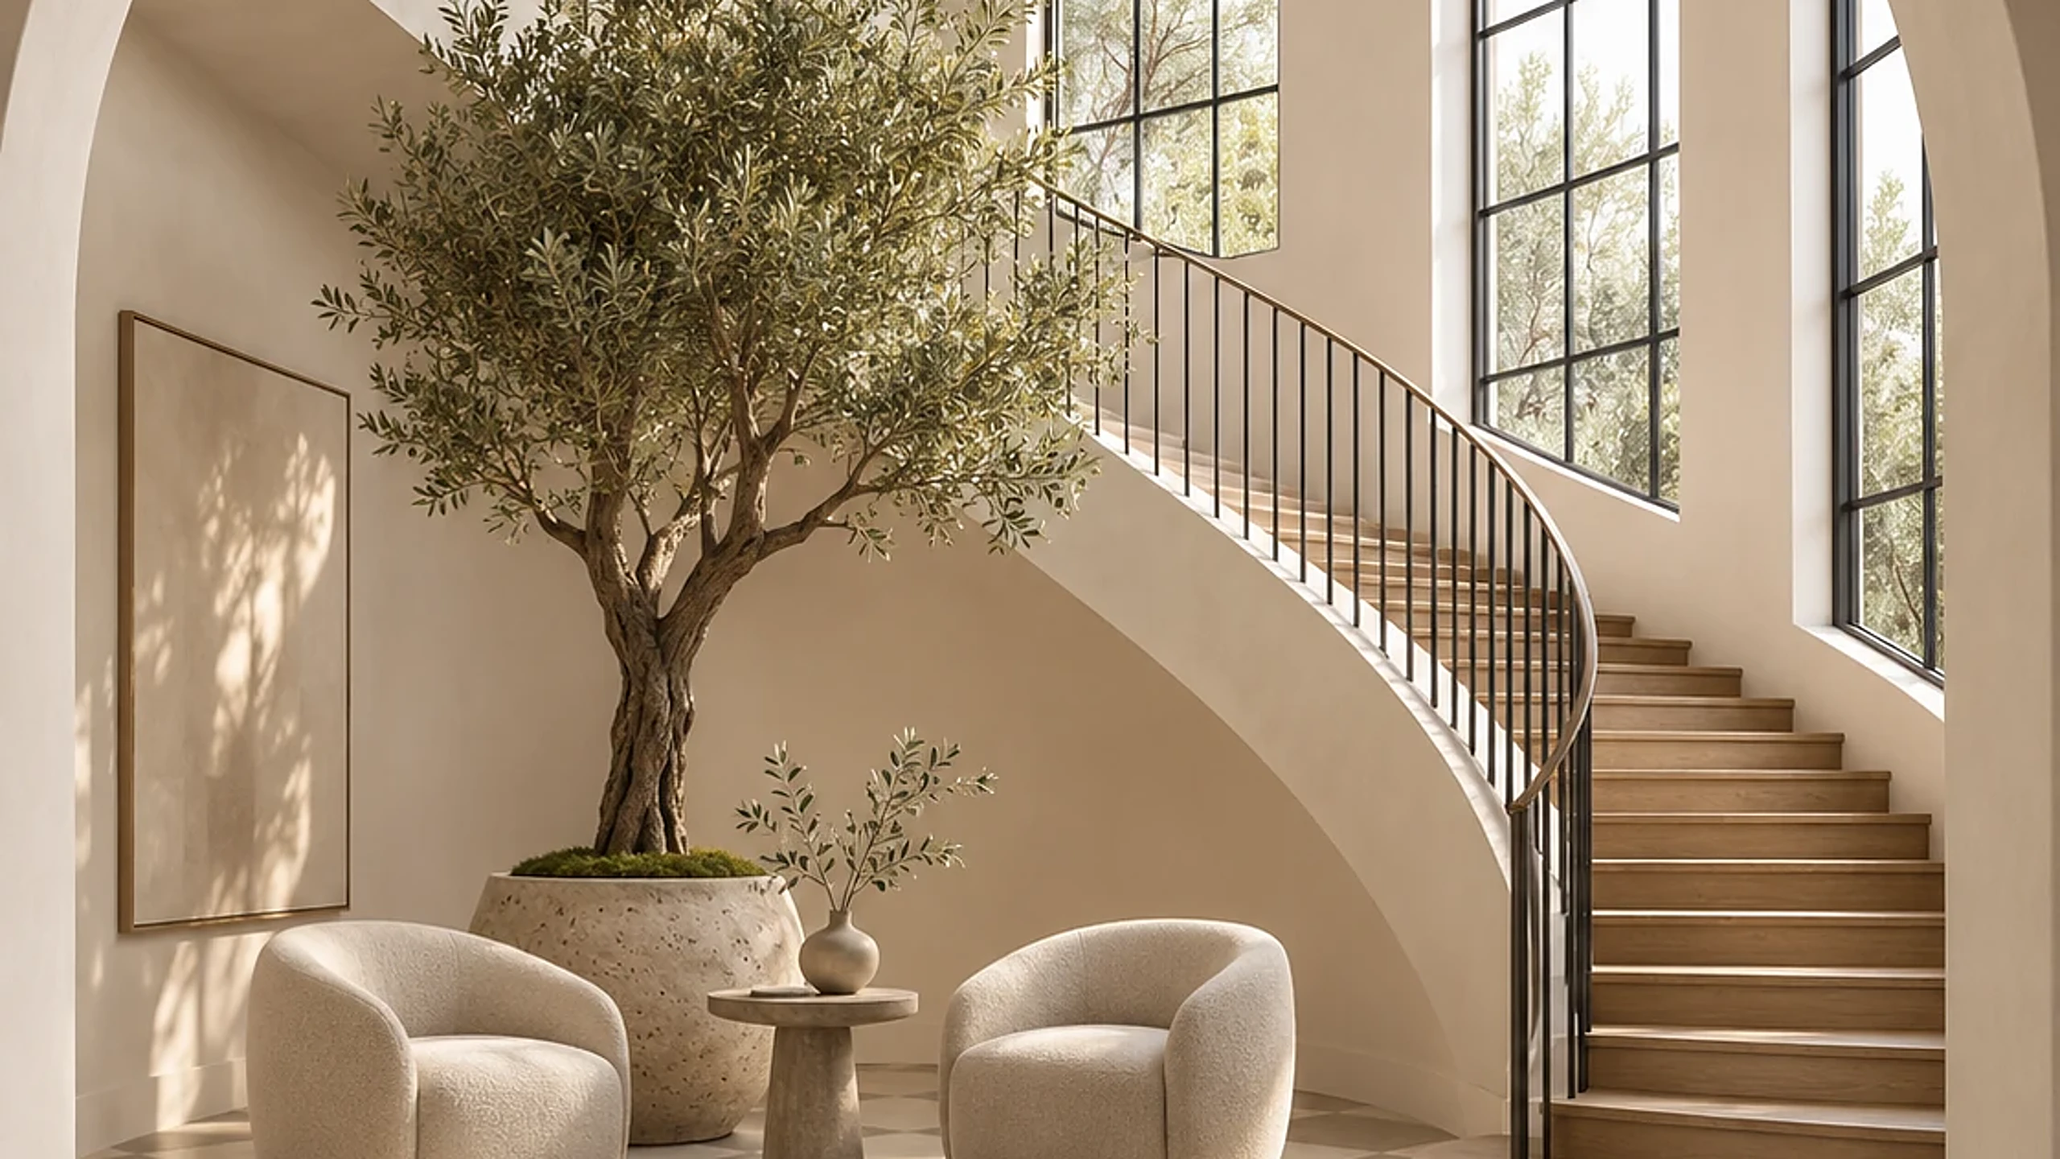
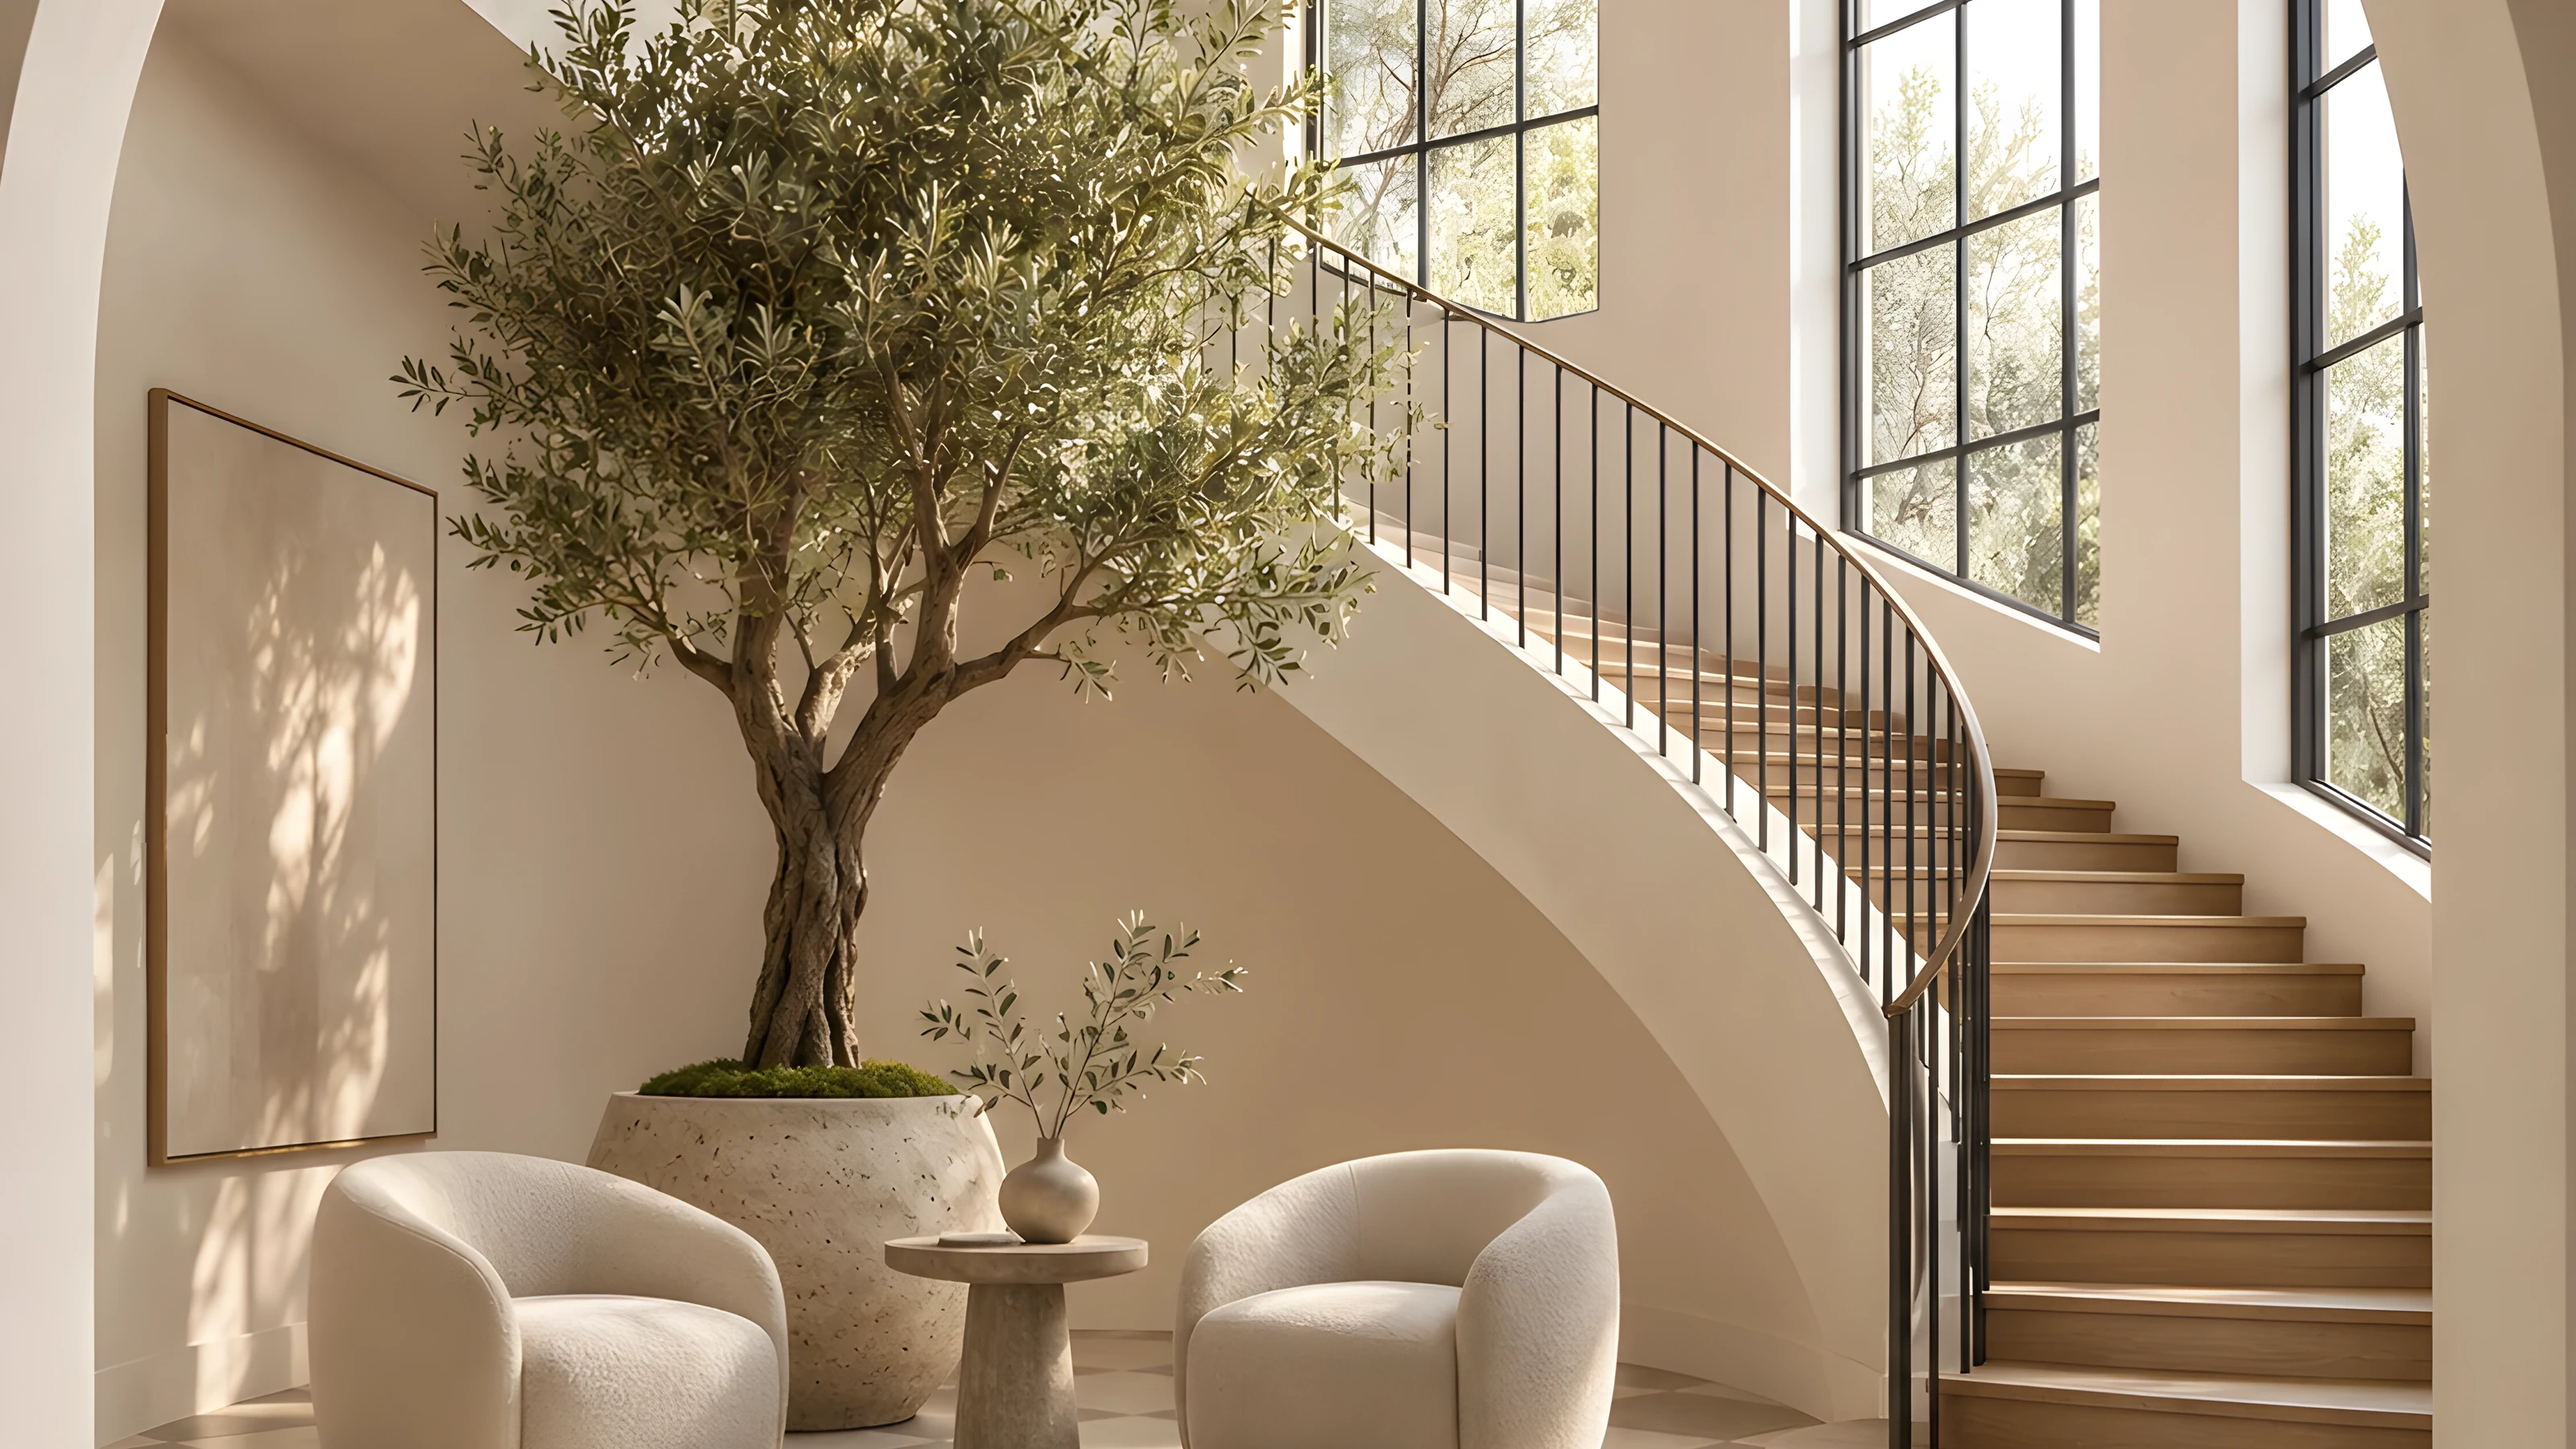
Natural colour for portfolio images; sharper staircase hero
Portfolio images no longer take the site-wide pink wash and get a small
saturation and contrast lift instead.

Claude-Session: https://claude.ai/code/session_01PJnvV7EPmWku7QpvRs9UqU

diff --git a/index.html b/index.html
@@ -161,28 +161,28 @@
     <section class="projects" id="portfolio">
       <p class="eyebrow">Portfolio</p>
       <div class="project-row">
-        <figure class="project graded">
+        <figure class="project">
           <img src="images/portfolio-1.webp" alt="Kitchen with a rounded oak island, veined marble and a sculpted plaster hood" width="1200" height="1680" loading="lazy">
         </figure>
-        <figure class="project graded">
+        <figure class="project">
           <img src="images/portfolio-6.webp" alt="Entry hall with a curved staircase, arched windows and an olive tree" width="1200" height="1680" loading="lazy">
         </figure>
-        <figure class="project graded">
+        <figure class="project">
           <img src="images/portfolio-8.webp" alt="Bathroom with a freestanding tub, arched window, oak doors and a glass shower" width="1200" height="1680" loading="lazy">
         </figure>
-        <figure class="project graded" data-more hidden>
+        <figure class="project" data-more hidden>
           <img src="images/portfolio-2.webp" alt="Fireplace wrapped in bold veined stone with lit floating shelves beside it" width="1200" height="1680" loading="lazy">
         </figure>
-        <figure class="project graded" data-more hidden>
+        <figure class="project" data-more hidden>
           <img src="images/portfolio-3.webp" alt="Kitchen with bronze pendant lights, a farmhouse sink under a garden window and an oak island" width="1200" height="1680" loading="lazy">
         </figure>
-        <figure class="project graded" data-more hidden>
+        <figure class="project" data-more hidden>
           <img src="images/portfolio-7.webp" alt="Hallway with a lit oak staircase, plaster arches and a checkered stone floor" width="1200" height="1680" loading="lazy">
         </figure>
-        <figure class="project graded" data-more hidden>
+        <figure class="project" data-more hidden>
           <img src="images/portfolio-4.webp" alt="Classic ivory kitchen with brass lanterns and a marble island" width="1200" height="1680" loading="lazy">
         </figure>
-        <figure class="project graded" data-more hidden>
+        <figure class="project" data-more hidden>
           <img src="images/portfolio-5.webp" alt="Light oak kitchen with a stone waterfall island and a fluted hood" width="1200" height="1680" loading="lazy">
         </figure>
       </div>

diff --git a/css/styles.css b/css/styles.css
@@ -362,7 +362,10 @@ a { color: inherit; text-decoration: none; }
 .projects > .eyebrow { margin-bottom: 28px; }
 .project-row { display: grid; grid-template-columns: repeat(3, minmax(0, 1fr)); gap: 22px; }
 .project { margin: 0; aspect-ratio: 5 / 7; background: var(--ph); }
-.project img { display: block; width: 100%; height: 100%; object-fit: cover; }
+/* Portfolio images keep their own colours (no site-wide pink wash), with a
+   small lift so each room's materials stand apart. */
+.project { overflow: hidden; }
+.project img { display: block; width: 100%; height: 100%; object-fit: cover; filter: saturate(1.12) contrast(1.04); }
 .project.is-new { animation: project-in 0.8s ease both; }
 @keyframes project-in { from { opacity: 0; transform: translateY(24px); } }
 .more-button {
